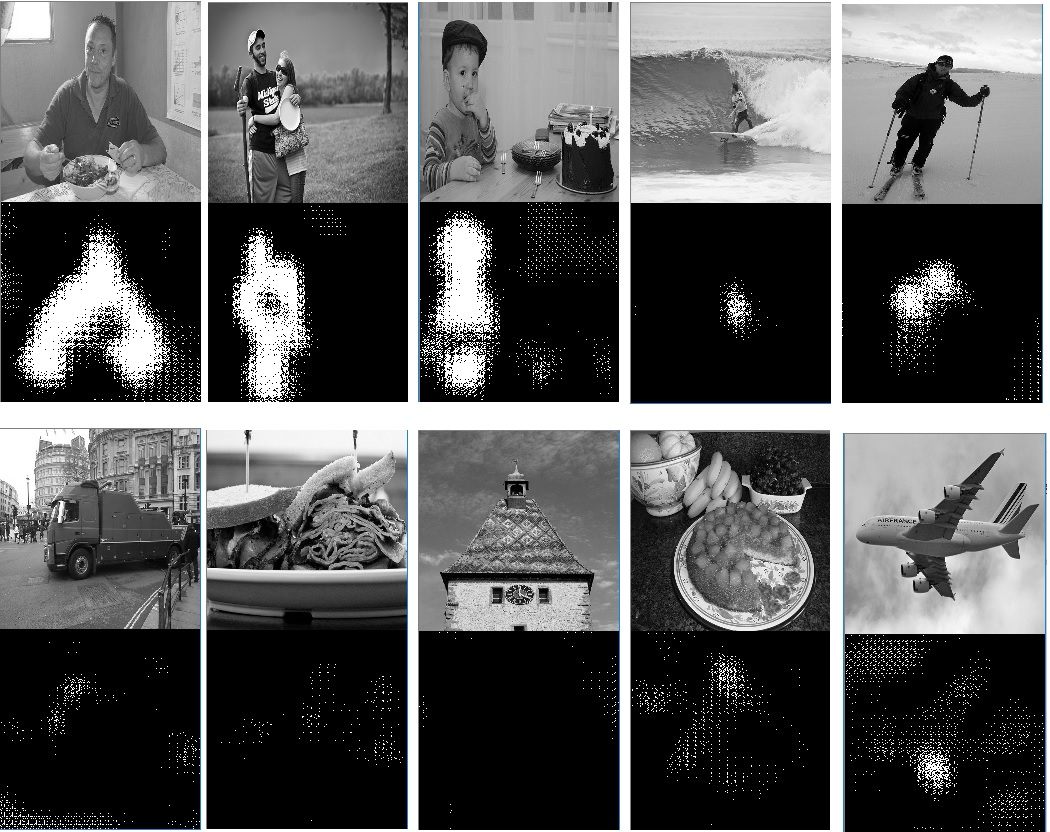
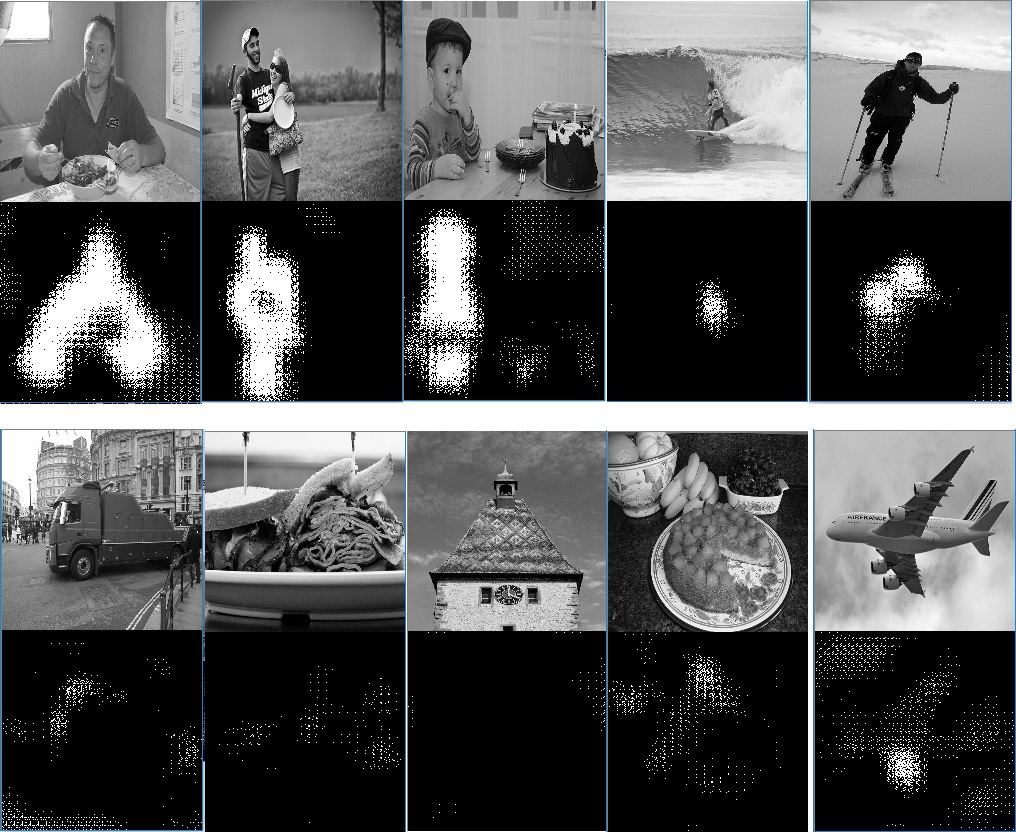
x

diff --git a/利用深度学习进行图片分割.md b/利用深度学习进行图片分割.md
@@ -480,7 +480,7 @@ int denoise(Mat & img)
 
 [Augmentor的python脚本示例](code/fcn/augmentor.py)
 
-在3.2小节得到的模型上进一步finetune。24000次迭代后测试效果如下，可以看到对于飞机、餐盘这种，白点会少一些，更好的照顾了假阳性。
+在3.2小节得到的模型上进一步finetune。32000次迭代后测试效果如下，可以看到对于飞机、餐盘这种，白点会稀疏一些，更好的照顾了假阳性。
 
 
 
